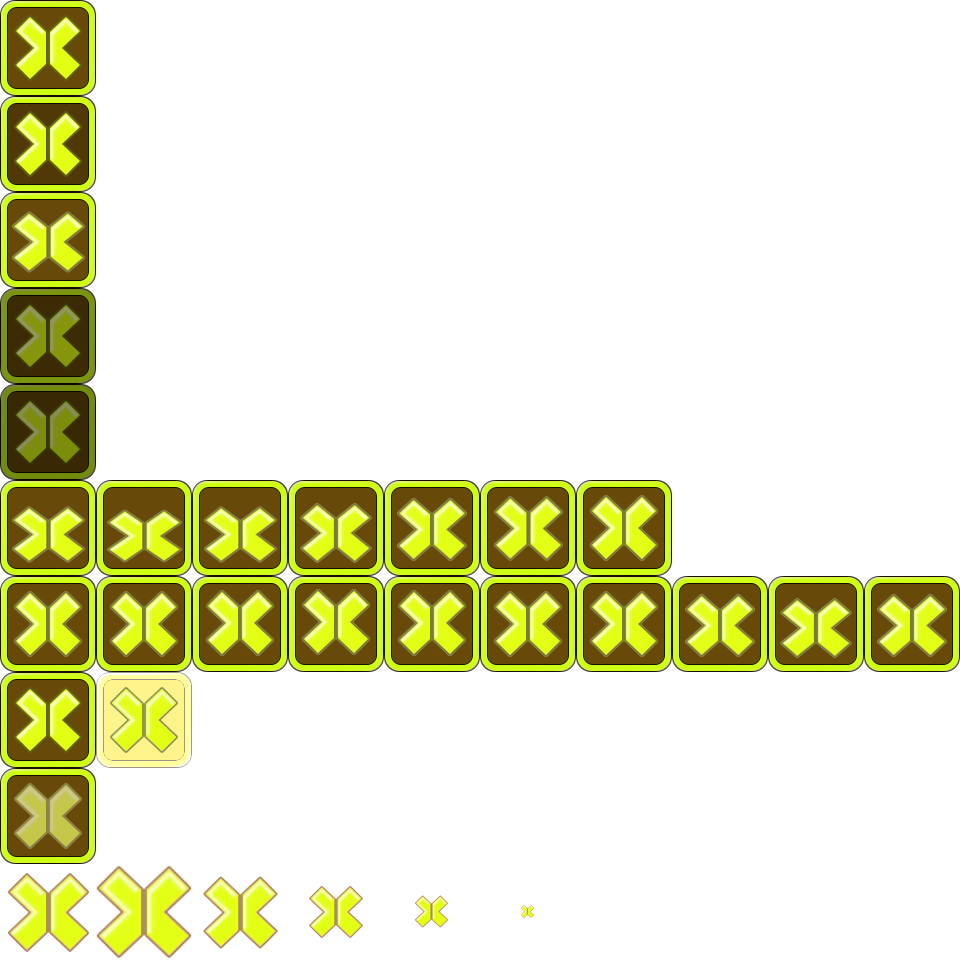
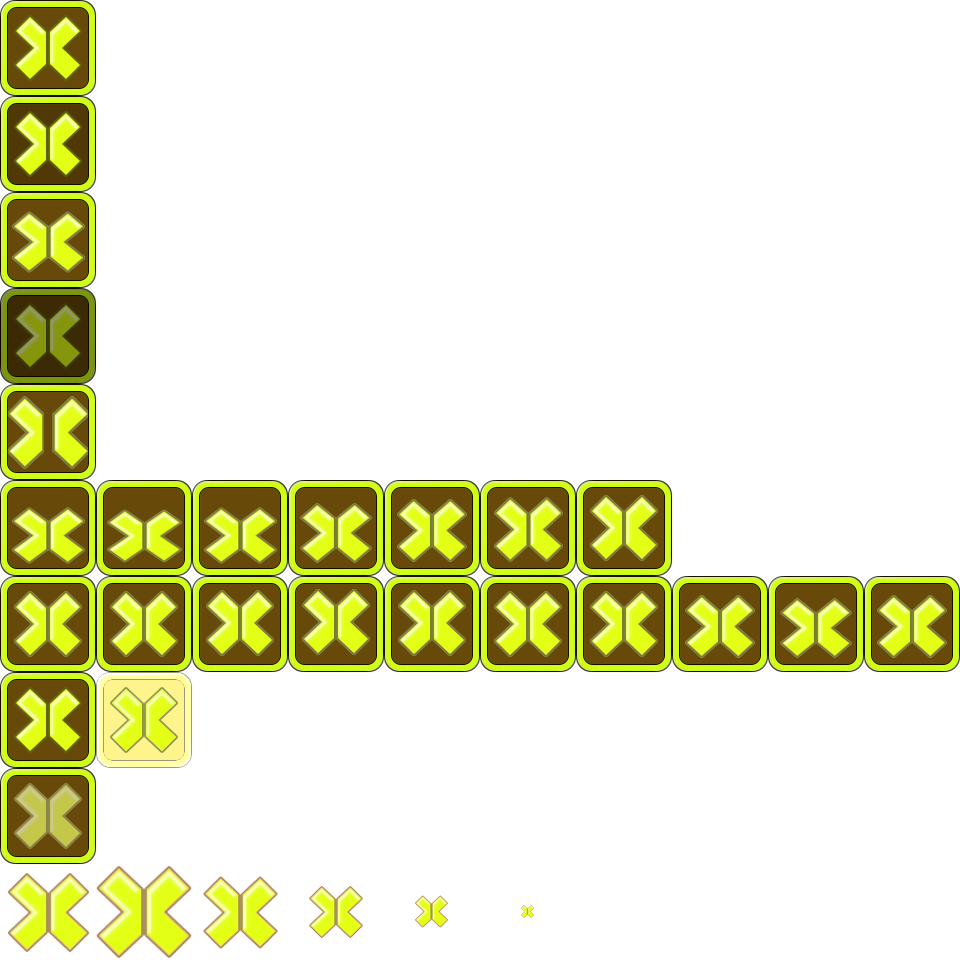
Add split image offset capabilities

diff --git a/Panels/CreatePanels.py b/Panels/CreatePanels.py
@@ -57,14 +57,13 @@ class Sheet:
     self.panelConfig = panelConfig
     self.x = 0
     self.y = -1
+    self.index = index
     self.backgroundImage = Image.open(self.panelConfig.folder + index + "background.png", mode = 'r')
     self.borderImage = Image.open(self.panelConfig.folder + index + "border.png", mode = 'r')
     self.shapeImage = Image.open(self.panelConfig.folder + index + "shape.png", mode = 'r')
     self.panelSize = self.backgroundImage.size
     self.sheetImage = Image.new('RGBA', (self.panelSize[0] * self.panelConfig.maxAnimationFrames, self.panelSize[1] * self.panelConfig.animationCount), (255, 0, 0, 0))
 
-
-  
   def startAnimation(self):
     self.x = 0 
     self.y += 1
@@ -117,17 +116,76 @@ class Sheet:
     self.addFrame(panelImage)
     self.endAnimation()
 
+  def splitTypeForIndex(self, index, shouldSplit):
+    splitType = 0
+    if shouldSplit:
+      match index:
+        case '1':
+            splitType = 1
+        case '2':
+            splitType = 2
+        case '3':
+            splitType = 1
+        case '4':
+            splitType = 1
+        case '5':
+            splitType = 2
+        case '6':
+            splitType = 2
+        case '7':
+            splitType = 1
+        case '8':
+            splitType = 2
+    return splitType
+              
   # Builds an animation with the shapes transformed by a set of animations of: xOffset, yOffset, xScale, yScale
-  def buildAnimationWithShapeTransforms(self, shapeTransformAnimations):
+  def buildAnimationWithShapeTransforms(self, shapeTransformAnimations, shouldSplit):
       self.startAnimation()
       for animation in shapeTransformAnimations:
+        splitType = self.splitTypeForIndex(self.index, shouldSplit)
+
+        panelImage = self.backgroundImage.copy()
         newWidth = int(animation[2] * self.panelSize[0])
         newHeight = int(animation[3] * self.panelSize[1])
-        xOffset = int(animation[0] * self.panelSize[0]) + int((self.panelSize[0] - newWidth) / 2)
-        yOffset = int(animation[1] * self.panelSize[1]) + int((self.panelSize[1] - newHeight) / 2)
-        panelImage = Image.alpha_composite(self.backgroundImage, self.borderImage)
         squishedShapeImage = self.shapeImage.resize([newWidth, newHeight])
-        panelImage.paste(squishedShapeImage, (xOffset, yOffset), squishedShapeImage)
+        if splitType == 0:
+          xOffset = int(animation[0] * self.panelSize[0]) - int(squishedShapeImage.size[0] / 2) + int(self.panelSize[0] / 2)
+          yOffset = int(animation[1] * self.panelSize[1]) - int(squishedShapeImage.size[1] / 2) + int(self.panelSize[1] / 2)
+
+          panelImage.paste(squishedShapeImage, (xOffset, yOffset), squishedShapeImage)
+        elif splitType == 1:
+          squishedSize = squishedShapeImage.size
+          left = 0
+          middle = squishedSize[0] / 2
+          right = squishedSize[0]
+          top = 0
+          bottom = squishedSize[1]
+          splitImage = squishedShapeImage.crop((left, top, middle, bottom))
+          xOffset = int(animation[0] * self.panelSize[0]) - int(splitImage.size[0]) + int(self.panelSize[0] / 2)
+          yOffset = int(animation[1] * self.panelSize[1]) - int(splitImage.size[1] / 2) + int(self.panelSize[1] / 2)
+          panelImage.paste(splitImage, (xOffset, yOffset), splitImage)
+          splitImage = squishedShapeImage.crop((middle, top, right, bottom))
+          xOffset = -int(animation[0] * self.panelSize[0]) + int(self.panelSize[0] / 2)
+          yOffset = -int(animation[1] * self.panelSize[1]) - int(splitImage.size[1] / 2) + int(self.panelSize[1] / 2)
+          panelImage.paste(splitImage, (xOffset, yOffset), splitImage)
+        else:
+          squishedSize = squishedShapeImage.size
+          left = 0
+          right = squishedSize[0]
+          top = 0
+          middle = squishedSize[1] / 2
+          bottom = squishedSize[1]
+
+          splitImage = squishedShapeImage.crop((left, top, right, middle))
+          xOffset = int(animation[1] * self.panelSize[0]) - int(splitImage.size[0] / 2) + int(self.panelSize[0] / 2)
+          yOffset = int(animation[0] * self.panelSize[1]) - int(splitImage.size[1]) + int(self.panelSize[1] / 2)
+          panelImage.paste(splitImage, (xOffset, yOffset), splitImage)
+          splitImage = squishedShapeImage.crop((left, middle, right, bottom))
+          xOffset = -int(animation[1] * self.panelSize[0]) - int(splitImage.size[0] / 2) + int(self.panelSize[0] / 2)
+          yOffset = -int(animation[0] * self.panelSize[1]) + int(self.panelSize[1] / 2)
+          panelImage.paste(splitImage, (xOffset, yOffset), splitImage)
+        
+        panelImage = Image.alpha_composite(panelImage, self.borderImage)
         self.addFrame(panelImage)
       self.endAnimation()
 
@@ -135,7 +193,7 @@ class Sheet:
       # xOffset, yOffset, xScale, yScale
       animations = [[0, 0.03, 1.082, 0.92],
                     ]
-      self.buildAnimationWithShapeTransforms(animations)
+      self.buildAnimationWithShapeTransforms(animations, 0)
 
   def buildDimmedAnimation(self):
     self.startAnimation()
@@ -145,13 +203,10 @@ class Sheet:
     self.endAnimation()
 
   def buildDeadAnimation(self):
-    self.startAnimation()
-    panelImage = self.standardPanelImage()
-    panelImage = adjustExtremes(panelImage, 0, 140)
-    # panelImage = adjust_levels(panelImage, 0, 255)
-    self.addFrame(panelImage)
-    self.endAnimation()
-
+    # xOffset, yOffset, xScale, yScale
+    animations = [[-0.05, 0, 1.1, 1.1]]
+    self.buildAnimationWithShapeTransforms(animations, 1)
+  
   def buildLandingAnimation(self):
       # xOffset, yOffset, xScale, yScale
       animations = [[0, 0.075, 1.075, 0.85],
@@ -162,7 +217,7 @@ class Sheet:
                     [0, 0.015, 1.0125, 0.975],
                     [0, 0, 1, 1]
                     ]
-      self.buildAnimationWithShapeTransforms(animations)
+      self.buildAnimationWithShapeTransforms(animations, 0)
 
   def buildShineDangerAnimation(self):
       self.startAnimation()
@@ -215,7 +270,7 @@ class Sheet:
                     ]
       if self.panelConfig.dangerBounceReduced:
         animations = map(lambda animation: [animation[0]/2, animation[1]/2, ((animation[2]-1)/2)+1, ((animation[3]-1)/2)+1], animations)
-      self.buildAnimationWithShapeTransforms(animations)
+      self.buildAnimationWithShapeTransforms(animations, 0)
   
   def buildFlashAnimation(self):
       self.startAnimation()
